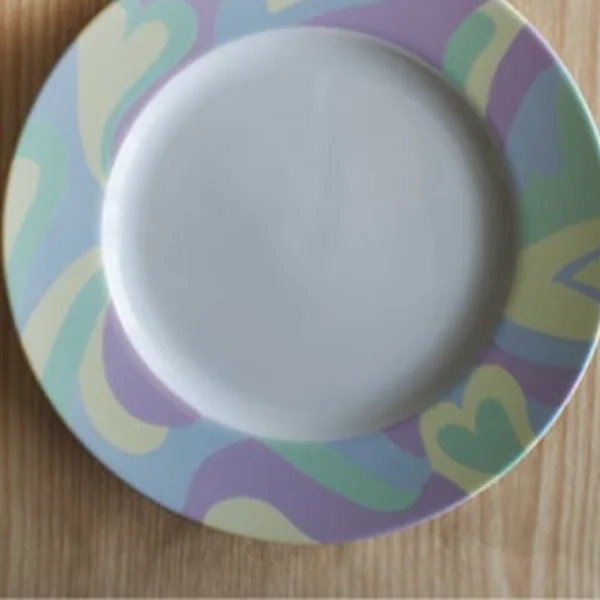
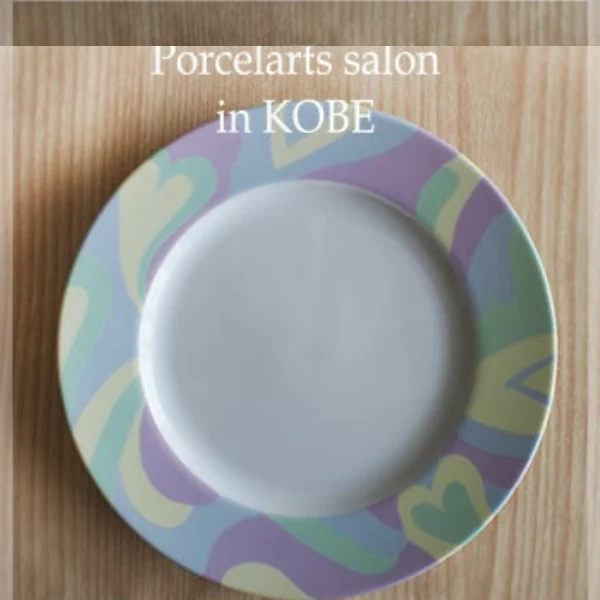
作品集見出しの読点削除(絵の具の技術UPで)＋FVギャラリーから見切れる構図の57(レモンタルト)を除去＋下ギャラリーのハート皿(KOBE)を全体が入るよう上に木目余白を足して配置

diff --git a/index.html b/index.html
@@ -2523,7 +2523,7 @@
   </div>
 
   <!-- 作品ギャラリーの導入コピー -->
-  <p class="fv-gallery-lead">絵の具の技術UPで、<br>こんな作品が作れるようになります</p>
+  <p class="fv-gallery-lead">絵の具の技術UPで<br>こんな作品が作れるようになります</p>
 
   <!-- FV直下の作品ギャラリー（「こんな作品が作れる！」のワクワク感）※画像は仮 -->
   <div class="fv-gallery">
@@ -2537,7 +2537,6 @@
         <div class="marquee-item"><img src="img/作品/47.webp" alt="ピオニーとリボンを描いたボックス" data-gallery="fv"></div>
         <div class="marquee-item"><img src="img/作品/50.webp" alt="レモンイエローのカップ＆ソーサー" data-gallery="fv"></div>
         <div class="marquee-item"><img src="img/作品/40.webp" alt="モザイク柄のカラフルなプレート" data-gallery="fv"></div>
-        <div class="marquee-item"><img src="img/作品/57.webp" alt="デイジーを描いたケーキ皿" data-gallery="fv"></div>
         <div class="marquee-item"><img src="img/作品/70.webp" alt="気球柄のティーフォーワン" data-gallery="fv"></div>
         <div class="marquee-item"><img src="img/作品/71.webp" alt="淡い色彩のカップ＆ソーサー" data-gallery="fv"></div>
         <div class="marquee-item"><img src="img/作品/73.webp" alt="花柄のティーカップ" data-gallery="fv"></div>
@@ -2549,7 +2548,6 @@
         <div class="marquee-item"><img src="img/作品/47.webp" alt="" aria-hidden="true"></div>
         <div class="marquee-item"><img src="img/作品/50.webp" alt="" aria-hidden="true"></div>
         <div class="marquee-item"><img src="img/作品/40.webp" alt="" aria-hidden="true"></div>
-        <div class="marquee-item"><img src="img/作品/57.webp" alt="" aria-hidden="true"></div>
         <div class="marquee-item"><img src="img/作品/70.webp" alt="" aria-hidden="true"></div>
         <div class="marquee-item"><img src="img/作品/71.webp" alt="" aria-hidden="true"></div>
         <div class="marquee-item"><img src="img/作品/73.webp" alt="" aria-hidden="true"></div>